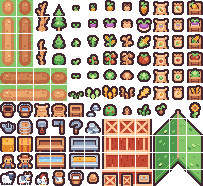
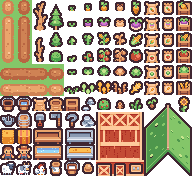
fix(pixel-shop): use packed 16px Kenney sheets and validate actual 192x176 geometry

diff --git a/components/pixel-shop/kenney-art.ts b/components/pixel-shop/kenney-art.ts
@@ -15,7 +15,7 @@ export async function loadKenneyAtlas(): Promise<KenneyAtlas | null> {
     const source={farm,town};
     const cache=new Map<string,Texture>();
     return { tile(pack,col,row,columns=1,rows=1) {
-      if (![col,row,columns,rows].every(Number.isInteger) || col<0 || row<0 || columns<1 || rows<1 || (col+columns)*TILE>176 || (row+rows)*TILE>192) {
+      if (![col,row,columns,rows].every(Number.isInteger) || col<0 || row<0 || columns<1 || rows<1 || (col+columns)*TILE>192 || (row+rows)*TILE>176) {
         throw new Error("Kenney tile out of range");
       }
       const key=[pack,col,row,columns,rows].join(":");

diff --git a/docs/ASSET_SOURCES.md b/docs/ASSET_SOURCES.md
@@ -4,8 +4,8 @@ Ngày kiểm tra: 2026-11-11. Quy tắc: chỉ tích hợp tài sản được c
 
 | Tài sản | Tác giả | Giấy phép | Nguồn gốc (bản cụ thể) | File đang dùng |
 |---|---|---|---|---|
-| Tiny Farm v1.0 tilemap, 16×16 | Kenney | CC0-1.0, thương mại được, credit tùy chọn | https://github.com/eturner58/game-assets/blob/main/kenney/2D%20assets/Tiny%20Farm/Tilemap/tilemap.png | `public/pixel-shop/atlases/kenney-tiny-farm.png` |
-| Tiny Town v1.1 tilemap, 16×16 | Kenney | CC0-1.0, thương mại được, credit tùy chọn | https://github.com/eturner58/game-assets/blob/main/kenney/2D%20assets/Tiny%20Town/Tilemap/tilemap.png | `public/pixel-shop/atlases/kenney-tiny-town.png` |
+| Tiny Farm v1.0 tilemap, 16×16 | Kenney | CC0-1.0, thương mại được, credit tùy chọn | https://github.com/eturner58/game-assets/blob/main/kenney/2D%20assets/Tiny%20Farm/Tilemap/tilemap_packed.png | `public/pixel-shop/atlases/kenney-tiny-farm.png` |
+| Tiny Town v1.1 tilemap, 16×16 | Kenney | CC0-1.0, thương mại được, credit tùy chọn | https://github.com/eturner58/game-assets/blob/main/kenney/2D%20assets/Tiny%20Town/Tilemap/tilemap_packed.png | `public/pixel-shop/atlases/kenney-tiny-town.png` |
 
 Tải từ mirror của Kenney trên GitHub, giữ nguyên tilemap PNG gốc (không có ảnh preview/watermark). Quyền dùng thương mại được ghi trong các license đi kèm tại `third_party/pixel-art/kenney`.
 

diff --git a/docs/PIXEL_STYLE_GUIDE.md b/docs/PIXEL_STYLE_GUIDE.md
@@ -1,6 +1,6 @@
 # Cozy Garden Café — style guide for /pixel-shop
 
-- Main CC0 art: Kenney Tiny Farm 1.0 and Tiny Town 1.1, each a 16×16 tilesheet.
+- Main CC0 art: Kenney Tiny Farm 1.0 and Tiny Town 1.1, each a 16×16 packed tilesheet.
 - Source and licenses: [ASSET_SOURCES.md](./ASSET_SOURCES.md).
 - Palette: cream #FFEDBD, roof #E38A58, wood #986C4F, grass #80BD77, dark green #326A50, orange #FFA446.
 - Canvas keeps a logical 480×270 map; map model owns 4 hotspots, 5 tables and 15 seating spots.
